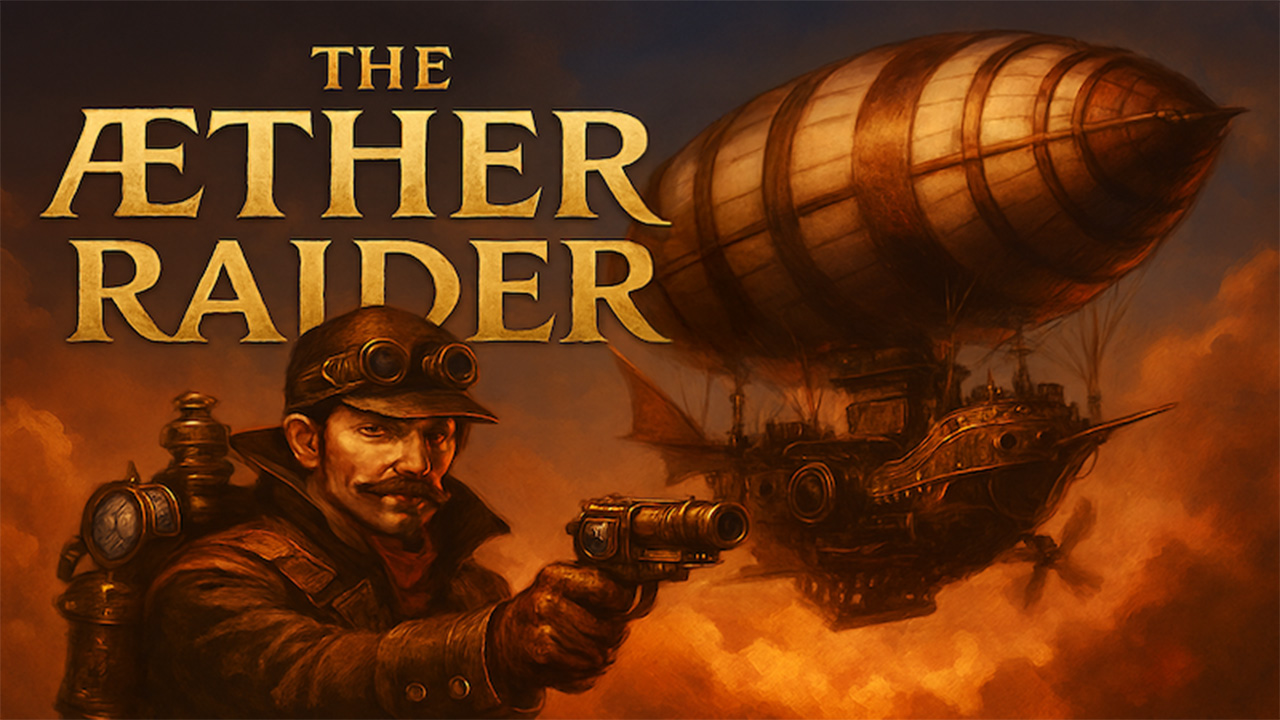
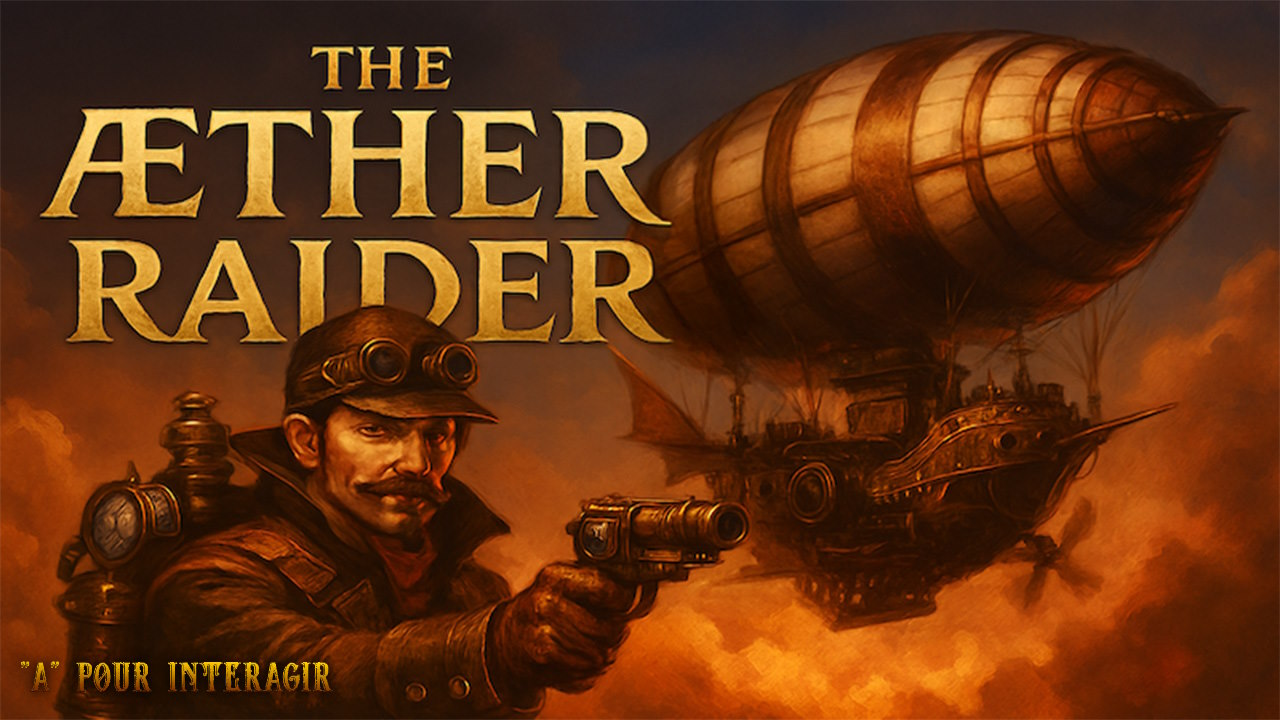
tuto

Changed region(s): [[0.0, 0.9167, 0.2812, 0.9778]]

diff --git a/phaser/js/debut.js b/phaser/js/debut.js
@@ -12,6 +12,8 @@ export default class debut extends Phaser.Scene {
     this.load.image("boutonControles", "./assets/boutoncontroles.png");
     this.load.image("boutonCredits", "./assets/boutoncredit.png");
     this.load.image("boutonRetour", "./assets/boutonretour.png");
+    this.load.image("oui", "./assets/oui.png");
+    this.load.image("non", "./assets/non.png");
 
     // Pages
     this.load.image("pageControles", "./assets/commandes.jpg");
@@ -19,6 +21,7 @@ export default class debut extends Phaser.Scene {
   }
 
   create() {
+    this.currentMode = "menu";
     const centerX = this.cameras.main.width / 2;
     const centerY = this.cameras.main.height / 2;
 
@@ -33,7 +36,7 @@ export default class debut extends Phaser.Scene {
     this.menuButtons = [];
 
     this.boutonJouer = this.createButton(centerX + offsetX, offsetY, "boutonJouer", () => {
-      this.scene.start("selection");
+      
     }, buttonScale);
     this.menuButtons.push(this.boutonJouer);
 
@@ -71,22 +74,69 @@ export default class debut extends Phaser.Scene {
     this.activeButtons = this.menuButtons;
     this.selectedIndex = 0;
     this.updateButtonSelection();
+
+
+
+
+    //TUTO
+    this.askTutorialContainer = this.add.container(0, 0).setVisible(false);
+    this.askTutorialBg = this.add.rectangle(centerX, centerY, 400, 200, 0x000000, 0.7);
+    this.askTutorialText = this.add.text(centerX, centerY - 50, "Veux-tu ignorer le tutoriel ?", {
+        fontSize: "24px",
+        color: "#ffffff",
+        fontFamily: "Arial",
+    }).setOrigin(0.5);
+
+    this.btnOui = this.createButton(centerX - 80, centerY + 40, "oui", () => this.startSelection(), 0.4);
+    this.btnNon = this.createButton(centerX + 80, centerY + 40, "non", () => this.startTutorial(), 0.4);
+
+    // On stocke les boutons pour navigation clavier
+    this.askButtons = [this.btnOui, this.btnNon];
+    this.askSelectedIndex = 0;
+    
+
+    // Ajout au container
+    this.askTutorialContainer.add([this.askTutorialBg, this.askTutorialText, this.btnOui, this.btnNon]);
+
+    // --- Nouvelle fonction pour l'animation du menu principal ---
+    this.boutonJouer.callback = () => this.showTutorialPrompt();
+
   }
 
   update() {
-    if (Phaser.Input.Keyboard.JustDown(this.cursors.down)) {
-      this.selectedIndex = (this.selectedIndex + 1) % this.activeButtons.length;
-      this.updateButtonSelection();
-    } else if (Phaser.Input.Keyboard.JustDown(this.cursors.up)) {
-      this.selectedIndex = (this.selectedIndex - 1 + this.activeButtons.length) % this.activeButtons.length;
-      this.updateButtonSelection();
-    }
+    if (this.currentMode === "menu") {
+        // --- Main menu navigation (up/down + I) ---
+        if (Phaser.Input.Keyboard.JustDown(this.cursors.down)) {
+            this.selectedIndex = (this.selectedIndex + 1) % this.activeButtons.length;
+            this.updateButtonSelection();
+        } else if (Phaser.Input.Keyboard.JustDown(this.cursors.up)) {
+            this.selectedIndex = (this.selectedIndex - 1 + this.activeButtons.length) % this.activeButtons.length;
+            this.updateButtonSelection();
+        }
 
-    if (Phaser.Input.Keyboard.JustDown(this.keyI)) {
-      const btn = this.activeButtons[this.selectedIndex];
-      if (btn.callback) btn.callback();
+        if (Phaser.Input.Keyboard.JustDown(this.keyI)) {
+            const btn = this.activeButtons[this.selectedIndex];
+            if (btn.callback) btn.callback();
+        }
+    } 
+    
+    else if (this.currentMode === "ask") {
+        // --- Tutorial prompt navigation (left/right + I) ---
+        if (Phaser.Input.Keyboard.JustDown(this.cursors.left)) {
+            this.askSelectedIndex = (this.askSelectedIndex - 1 + this.askButtons.length) % this.askButtons.length;
+            this.updateAskSelection();
+        } else if (Phaser.Input.Keyboard.JustDown(this.cursors.right)) {
+            this.askSelectedIndex = (this.askSelectedIndex + 1) % this.askButtons.length;
+            this.updateAskSelection();
+        }
+
+        if (Phaser.Input.Keyboard.JustDown(this.keyI)) {
+            const btn = this.askButtons[this.askSelectedIndex];
+            if (btn.callback) btn.callback();
+        }
     }
-  }
+}
+
 
   createButton(x, y, key, callback, scale = 1) {
     const btn = this.add.image(x, y, key).setInteractive({ useHandCursor: true }).setScale(scale);
@@ -94,7 +144,10 @@ export default class debut extends Phaser.Scene {
 
     btn.on("pointerover", () => this.setSelectedButton(btn));
     btn.on("pointerout", () => this.updateButtonSelection());
-    btn.on("pointerdown", () => callback());
+    btn.on("pointerdown", () => {
+      this.setSelectedButton(btn);
+      if (btn.callback) btn.callback();
+    });
 
     return btn;
   }
@@ -108,15 +161,16 @@ export default class debut extends Phaser.Scene {
   }
 
   updateButtonSelection() {
-  this.activeButtons.forEach((btn, i) => {
-    // Si c'est un bouton retour, on garde sa taille initiale
-    if (btn === this.retour1 || btn === this.retour2) {
-      btn.setScale(0.3); // taille originale
-    } else {
-      btn.setScale(i === this.selectedIndex ? 1.2 * 0.4 : 0.4);
-    }
-  });
+    this.activeButtons.forEach((btn, i) => {
+        const isSelected = i === this.selectedIndex;
+        if (btn === this.retour1 || btn === this.retour2) {
+            btn.setScale(isSelected ? 0.35 : 0.3);
+        } else {
+            btn.setScale(isSelected ? 0.5 : 0.4);
+        }
+    });
 }
+
 
 
   showPage(page, retourBtn) {
@@ -127,6 +181,7 @@ export default class debut extends Phaser.Scene {
     this.activeButtons = [retourBtn];
     this.selectedIndex = 0;
     this.updateButtonSelection();
+    this.currentMode = "menu";
   }
 
   hidePages() {
@@ -138,5 +193,51 @@ export default class debut extends Phaser.Scene {
     this.activeButtons = this.menuButtons;
     this.selectedIndex = 0;
     this.updateButtonSelection();
+    this.currentMode = "menu";
   }
+
+  showTutorialPrompt() {
+    // Slide des boutons du menu principal vers la droite
+    this.menuButtons.forEach(btn => {
+        this.tweens.add({
+            targets: btn,
+            x: this.cameras.main.width + 200,
+            duration: 500,
+            ease: 'Cubic.easeInOut'
+        });
+    });
+
+    // Slide du rectangle semi-transparent depuis la gauche
+    this.askTutorialContainer.setVisible(true);
+    this.askTutorialContainer.x = -this.cameras.main.width;
+    this.tweens.add({
+        targets: this.askTutorialContainer,
+        x: 0,
+        duration: 500,
+        ease: 'Cubic.easeInOut'
+    });
+
+    // Active la navigation clavier sur OUI/NON
+    this.activeButtons = this.askButtons;
+    this.askSelectedIndex = 0;
+    this.updateAskSelection();
+    this.currentMode = "ask";
 }
+
+// Navigation clavier pour OUI/NON
+updateAskSelection() {
+    this.askButtons.forEach((btn, i) => {
+        btn.setScale(i === this.askSelectedIndex ? 0.5 : 0.4);
+    });
+}
+
+startSelection() {
+    this.scene.start("selection");
+}
+
+startTutorial() {
+    this.scene.start("tutoriel");
+}
+
+}
+

diff --git a/phaser/js/tutoriel.js b/phaser/js/tutoriel.js
@@ -1,0 +1,121 @@
+export default class tutoriel extends Phaser.Scene {
+  constructor() {
+    super({ key: "tutoriel" });
+  }
+
+  preload() {
+    // Backgrounds
+    this.load.image("tuto0", "./assets/tuto0.jpg");
+    this.load.image("tuto1", "./assets/tuto1.jpg");
+    this.load.image("tuto2", "./assets/tuto2.jpg");
+
+    // Texts
+    for (let i = 0; i <= 12; i++) {
+      this.load.image("text" + i, `./assets/text${i}.png`);
+    }
+  }
+
+  create() {
+    const centerX = this.cameras.main.width / 2;
+    const centerY = this.cameras.main.height / 2;
+
+    // --- Inputs ---
+    this.keyI = this.input.keyboard.addKey(Phaser.Input.Keyboard.KeyCodes.I);
+    this.keyL = this.input.keyboard.addKey(Phaser.Input.Keyboard.KeyCodes.L);
+
+    // --- Background ---
+    this.background = this.add.image(centerX, centerY, "tuto0").setDepth(0);
+
+    // --- Overlay semi-transparent ---
+    this.overlay = this.add.rectangle(
+      centerX,
+      centerY,
+      this.cameras.main.width,
+      this.cameras.main.height,
+      0x000000,
+      0.6
+    ).setVisible(true).setDepth(1);
+
+    // --- Text image ---
+    this.textImage = this.add.image(centerX, centerY, "text0").setDepth(2).setScale(1);
+
+    // Suivi d’étape
+    this.step = 0;
+  }
+
+  update() {
+    if (Phaser.Input.Keyboard.JustDown(this.keyI)) {
+      this.nextStep();
+    }
+
+    if (this.step === 8 && Phaser.Input.Keyboard.JustDown(this.keyL)) {
+      this.nextStep(true); // Passage spécial avec "L"
+    }
+  }
+
+  nextStep(forceL = false) {
+    const centerX = this.cameras.main.width / 2;
+    const centerY = this.cameras.main.height / 2;
+
+    this.step++;
+
+    // Reset position/overlay à chaque étape
+    this.textImage.setVisible(true);
+    this.overlay.setVisible(false);
+
+    switch (this.step) {
+      case 1:
+        this.overlay.setVisible(false);
+        this.textImage.setTexture("text1").setPosition(20, 150).setOrigin(0,0).setScale(0.8);
+        break;
+      case 2:
+        this.textImage.setTexture("text2").setPosition(centerX +50, 150).setOrigin(0.5,0).setScale(0.8);
+        break;
+      case 3:
+        this.textImage.setTexture("text3").setPosition(this.cameras.main.width - 10, 70).setOrigin(1,0).setScale(0.7);
+        break;
+      case 4:
+        this.textImage.setTexture("text4").setPosition(240, this.cameras.main.height - 60).setOrigin(0,1).setScale(0.6);
+        break;
+      case 5:
+        this.textImage.setTexture("text5").setPosition(this.cameras.main.width - 20, this.cameras.main.height - 70).setOrigin(1,1);
+        break;
+      case 6:
+        this.overlay.setVisible(true);
+        this.textImage.setTexture("text6").setPosition(centerX, centerY).setOrigin(0.5).setScale(0.9);
+        break;
+      case 7:
+        this.overlay.setVisible(true);
+        this.textImage.setTexture("text7").setPosition(centerX, centerY).setOrigin(0.5);
+        break;
+      case 8:
+        this.overlay.setVisible(true);
+        this.textImage.setTexture("text8").setPosition(centerX, centerY).setOrigin(0.5);
+        break;
+      case 9:
+        // Ici il faut appuyer sur L pour continuer
+        if (!forceL) {
+        this.overlay.setVisible(true);
+          this.step--; // on bloque si pas "L"
+          return;
+        }
+        this.background.setTexture("tuto1");
+        this.textImage.setTexture("text9").setPosition(this.cameras.main.width - 30, centerY + 60).setOrigin(1,0.5).setScale(0.9);
+        break;
+      case 10:
+        this.background.setTexture("tuto2");
+        this.textImage.setTexture("text10").setPosition(20, 20).setOrigin(0,0);
+        break;
+      case 11:
+        this.textImage.setTexture("text11").setPosition(20, 20).setOrigin(0,0);
+        break;
+      case 12:
+        this.overlay.setVisible(true);
+        this.textImage.setTexture("text12").setPosition(centerX, centerY).setOrigin(0.5).setScale(1);
+        break;
+      case 13:
+        this.scene.start("selection");
+        break;
+    }
+  }
+}

diff --git a/phaser/js/selection.js b/phaser/js/selection.js
@@ -807,7 +807,7 @@ while (this.playerXP >= this.xpForNextLevel(this.playerLevel)) {
 
 
 
-    this.tesla1 = new Tesla(this, 600, 300, this.player);  // x=600, y=300
+    this.tesla1 = new Tesla(this, 600, 1200, this.player);
     this.add.existing(this.tesla1);
 
     // Ajouter collision entre le joueur et la Tesla (facultatif si tu veux bloquer le joueur)
@@ -932,12 +932,12 @@ this.teleportA = this.add.rectangle(3440, 700, 50, 100);
 this.physics.add.existing(this.teleportA, true);
 
 // Téléporteur B
-this.teleportB = this.add.rectangle(130, 1920, 100, 100);
+this.teleportB = this.add.rectangle(150, 1920, 100, 100);
 this.physics.add.existing(this.teleportB, true);
 
 // Pour debug → affiche en rouge (tu peux commenter après)
-this.teleportA.setFillStyle?.(0xff0000, 0.3);
-this.teleportB.setFillStyle?.(0x0000ff, 0.3);
+//this.teleportA.setFillStyle?.(0xff0000, 0.3);
+//this.teleportB.setFillStyle?.(0x0000ff, 0.3);
 
 // Flag pour savoir si le joueur est dedans
 this.currentTeleportZone = null;
@@ -1787,7 +1787,7 @@ attackMelee() {
         hitboxWidth,
         hitboxHeight,
         0xff0000,
-        0.3
+        0
     );
     this.physics.add.existing(hitbox);
     hitbox.body.allowGravity = false;

diff --git a/phaser/index.js b/phaser/index.js
@@ -1,6 +1,7 @@
 // chargement des librairies
 import selection from "./js/selection.js";
 import debut from "./js/debut.js";
+import tutoriel from "./js/tutoriel.js";
 
 // configuration générale du jeu
 var config = {
@@ -21,10 +22,10 @@ var config = {
       gravity: {
         y: 300 // gravité verticale : acceleration ddes corps en pixels par seconde
       },
-      debug: true // afficher les hitbox et vecteurs
+      debug: false // afficher les hitbox et vecteurs
     }
   },
-  scene: [debut, selection],
+  scene: [debut, tutoriel, selection],
   baseURL: window.location.pathname.replace(/\/[^/]*$/, '')
 };
 
